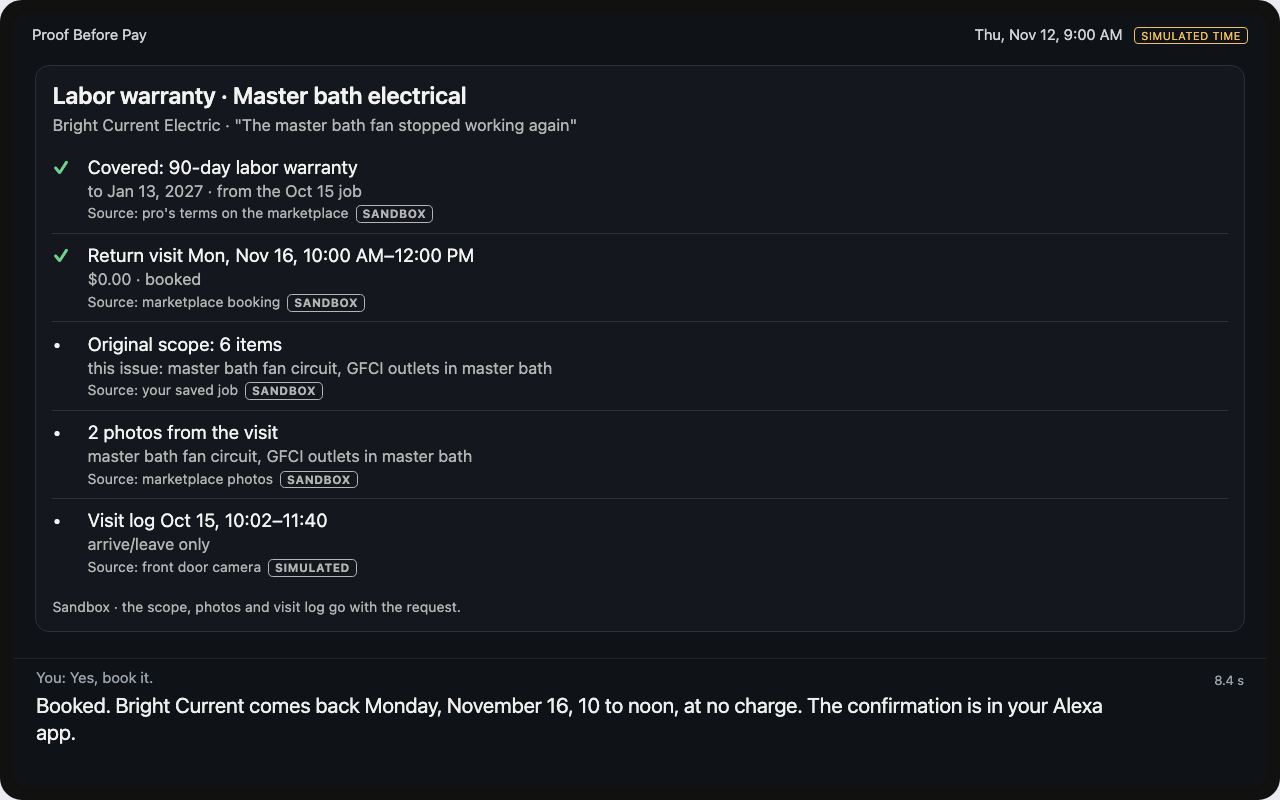
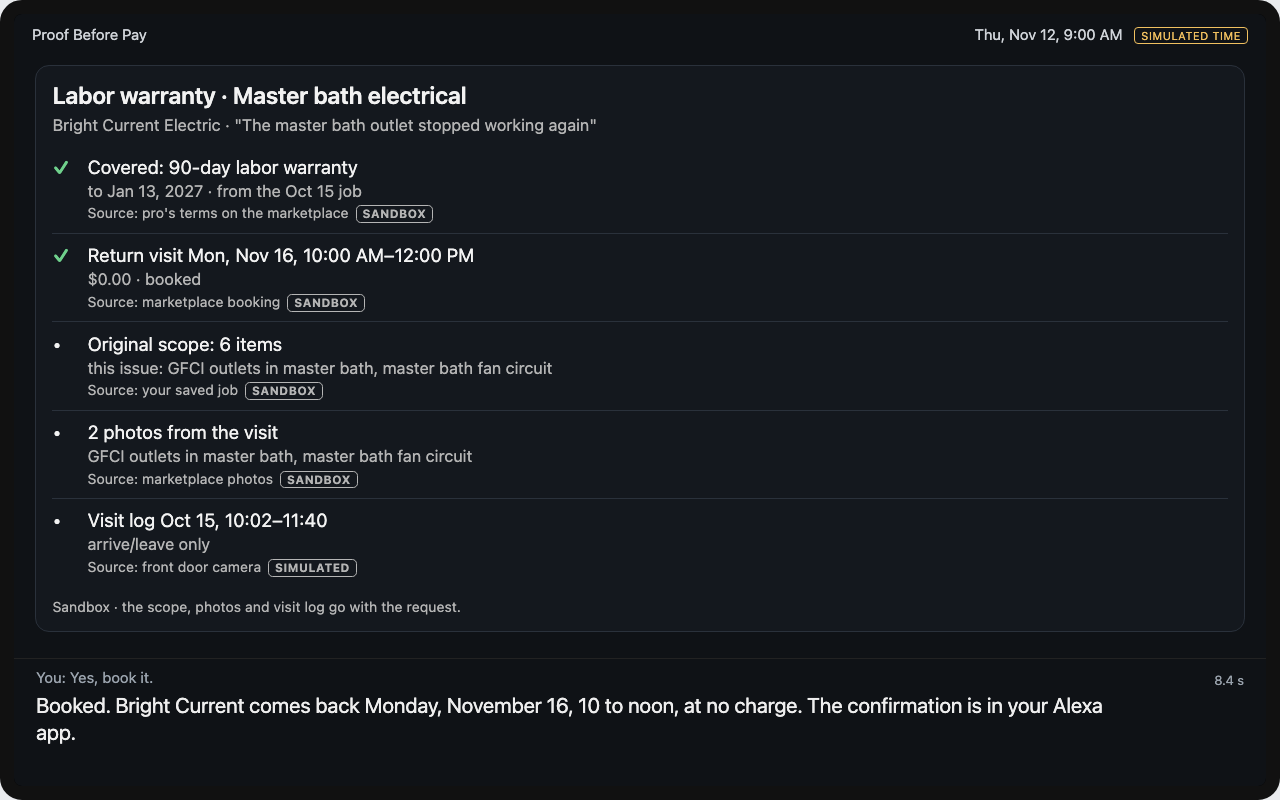
Warranty beat uses the outlet case from the video script; Book free visit; REGISTRY_LIVE_NUMBERS for recording a live registry chip

Changed region(s): [[0.125, 0.4375, 0.4375, 0.4688], [0.0625, 0.5625, 0.375, 0.5938], [0.3125, 0.125, 0.4688, 0.1875]]

diff --git a/src/app/services.ts b/src/app/services.ts
@@ -25,6 +25,8 @@ export type Env = {
   RING_TOKEN: string; // bearer for the camera history API ("sandbox" against the simulator)
   CAMERA_MODE: SourceMode; // how camera facts are labelled: "simulated" against the sandbox simulator
   REGISTRY_MODE: "fixture" | "live" | "auto";
+  /** Opt-in (recording only): license numbers that always go to the live registry, even with a recorded page. */
+  REGISTRY_LIVE_NUMBERS: string[];
 };
 
 export function envFromProcess(e: NodeJS.ProcessEnv = process.env): Env {
@@ -40,6 +42,7 @@ export function envFromProcess(e: NodeJS.ProcessEnv = process.env): Env {
     RING_TOKEN: e.RING_TOKEN ?? "sandbox",
     CAMERA_MODE: (e.CAMERA_MODE as SourceMode | undefined) ?? "simulated",
     REGISTRY_MODE: mode,
+    REGISTRY_LIVE_NUMBERS: (e.REGISTRY_LIVE_NUMBERS ?? "").split(",").map((x) => x.trim().toUpperCase()).filter(Boolean),
   };
 }
 
@@ -216,7 +219,8 @@ export function createServices(env: Env = envFromProcess()): Services {
     },
 
     lookupLicense(licenseNumber, claimedName, now) {
-      return coreLookupLicense(licenseNumber, claimedName, { mode: env.REGISTRY_MODE, fixtures: regFixtures(), now: env.REGISTRY_MODE === "fixture" ? now : undefined });
+      const mode = (env.REGISTRY_LIVE_NUMBERS ?? []).includes(licenseNumber.toUpperCase()) ? "live" : env.REGISTRY_MODE;
+      return coreLookupLicense(licenseNumber, claimedName, { mode, fixtures: regFixtures(), now: mode === "fixture" ? now : undefined });
     },
 
     async createBooking(r) {

diff --git a/verify/protocol.ts b/verify/protocol.ts
@@ -344,7 +344,7 @@ export async function runProtocolChecks(opts: { mcpUrl: string; simBase: string;
   // ---------- R: warranty, a month later (SPEC §7.5 beat 6) ----------
   const advW = await sim(simBase, "/advance", { to: "warranty" });
   const wr = await session(mcpUrl, userA);
-  const issue = "The master bath fan stopped working again.";
+  const issue = "The master bath outlet stopped working again.";
   const offer = track("warranty_callback", await call(wr.c, "warranty_callback", { issue }));
   const od = offer.sc.data ?? {};
   add("R1", "warranty_callback offer: SPEC line; 90-day labor warranty to Jan 13, 2027; $0.00 return visit Mon Nov 16 10-12; evidence scope + 2 photos + visit log", SPEC_LINES.warranty,

diff --git a/verify/browser.ts b/verify/browser.ts
@@ -199,7 +199,7 @@ export async function runBrowserChecks(opts: { hostUrl: string; simBase: string;
     await page.waitForFunction(() => /Nov 12/.test(document.getElementById("clock")?.textContent ?? ""));
     await page.click("#new-session");
     await page.waitForSelector("body[data-connected='3']");
-    const t6a = await say("The master bath fan stopped working again.");
+    const t6a = await say("The master bath outlet stopped working again.");
     await cardReady("warranty", 7);
     const w6 = (await view().locator("#rows .row").allInnerTexts()).map((x) => x.replace(/\s+/g, " "));
     const t6b = await say("Yes, book it.");

diff --git a/server/cards.ts b/server/cards.ts
@@ -219,6 +219,6 @@ export function warrantyCard(job: Job): CardModel {
     subtitle: `${job.proName} · "${w.issue}"`,
     rows: rows.slice(0, 5),
     footer: w.covered ? "Sandbox · the scope, photos and visit log go with the request." : "Sandbox",
-    action: w.covered && !w.booked ? { label: "Book return visit", message: "Yes, book it." } : undefined,
+    action: w.covered && !w.booked ? { label: "Book free visit", message: "Yes, book it." } : undefined,
   };
 }

diff --git a/skill/src/handler.ts b/skill/src/handler.ts
@@ -29,7 +29,7 @@ export const TEXT = {
 
 const DEFAULT_JOB = "replace outlets and smoke detectors in the master bath";
 /** The interaction model's warranty samples are about the bathroom outlet (no slot). */
-const WARRANTY_ISSUE = "The bathroom outlet stopped working again";
+const WARRANTY_ISSUE = "The master bath outlet stopped working again";
 const APL = "Alexa.Presentation.APL";
 
 type Pending =

diff --git a/host/host.ts b/host/host.ts
@@ -562,7 +562,7 @@ const BEATS: { beat: number; say?: string; action?: "simTime" | "simWarranty" | 
   { beat: 5, say: "Yes, draft it." },
   { beat: 6, action: "simWarranty" },
   { beat: 6, action: "newSession" },
-  { beat: 6, say: "The master bath fan stopped working again." },
+  { beat: 6, say: "The master bath outlet stopped working again." },
   { beat: 6, say: "Yes, book it." },
 ];
 
